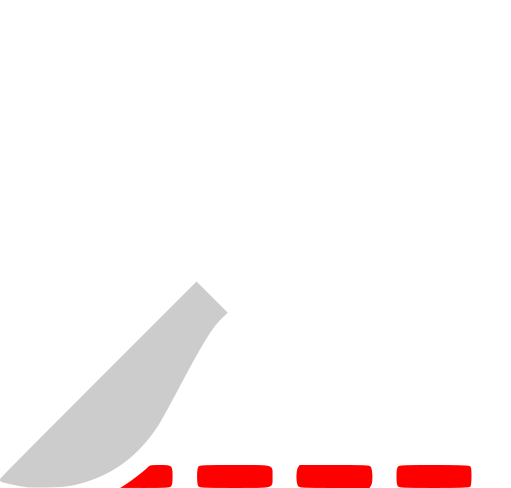
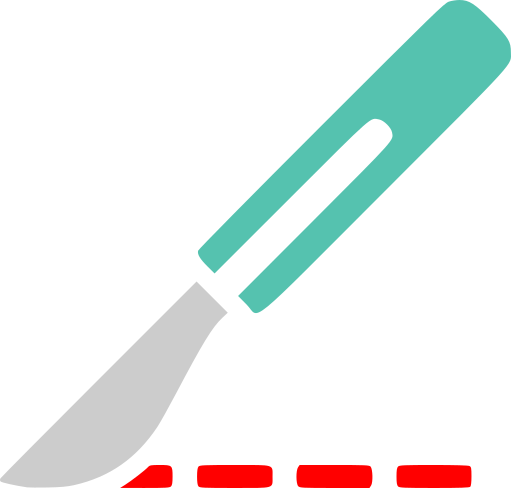
Visual

Changed region(s): [[0.3816, 0.0, 1.0, 0.6455]]

diff --git a/src/components/leaflet/leaflet_polylinedraw.js b/src/components/leaflet/leaflet_polylinedraw.js
@@ -19,7 +19,7 @@ L.Control.PolylineDraw = L.Control.extend({
     button.href = "#";
     button.title = "Start transect";
     var svgIcon =
-      '<svg xmlns="http://www.w3.org/2000/svg" width="28" height="28" version="1.1" viewBox="0 0 135.246 129.12" > <g strokeWidth="0.265" transform="translate(-4.964 -29.138)"> <path fill="#fff" d="M70.216 109.702l-2.24-2.25 20.279-20.306c21.623-21.651 20.878-20.814 20.469-22.994-.237-1.26-2.157-3.171-3.426-3.41-2.44-.457-1.216-1.535-23.238 20.466l-20.304 20.284-1.85-1.836c-2.025-2.009-2.753-3.221-2.511-4.183.09-.357 14.072-14.525 32.617-33.05 29.83-29.798 32.567-32.462 33.765-32.856.717-.236 1.978-.429 2.802-.429 2.54 0 4.02.953 8.518 5.488 4.526 4.563 5.089 5.493 5.089 8.403 0 3.51 2.132 1.167-33.402 36.71-37.546 37.558-32.845 33.706-36.568 29.963z" ></path> <path fill="red" d="M38.07 157.42c1.598-.996 5.361-3.907 6.061-4.688.449-.5.788-.563 3.09-.563 3.326 0 3.418.082 3.418 3.043 0 1.658-.105 2.316-.416 2.627-.356.356-1.358.415-6.946.41l-6.53-.004zm19.414.397c-.243-.292-.363-1.156-.363-2.605 0-1.448.12-2.313.363-2.605.325-.392 1.327-.437 9.55-.437 10.84 0 10.063-.239 10.063 3.088 0 3.215.734 2.997-10.109 2.997-8.18 0-9.18-.046-9.504-.438zm26.4-.046c-.598-.661-.616-4.17-.025-5.013l.412-.588h9.213c8.213 0 9.252.047 9.573.433.567.684.654 4.184.124 4.993l-.432.659h-9.213c-8.59 0-9.243-.033-9.651-.484zm26.437.068c-.312-.311-.416-.97-.416-2.627 0-1.657.104-2.315.416-2.627.362-.361 1.586-.415 9.41-.415 5.694 0 9.182.1 9.506.273.45.241.512.573.512 2.726 0 1.553-.116 2.567-.318 2.768-.234.235-2.712.318-9.506.318-8 0-9.242-.054-9.604-.416z" ></path> <path fill="#ccc" d="M12.142 158.089c-3.239-.482-6.776-1.27-7.02-1.564-.202-.243-.21-.503-.026-.833.147-.264 11.882-12.088 26.08-26.276l25.812-25.796 4.127 4.127 4.127 4.127-1.473 1.394c-2.637 2.493-5.156 6.617-12.21 19.984-1.996 3.783-4.226 7.772-4.955 8.863-5.556 8.312-12.648 13.266-22.027 15.384-1.774.401-3.562.56-7.011.623-2.547.047-4.988.032-5.424-.033z" ></path> </g> </svg>';
+      '<svg xmlns="http://www.w3.org/2000/svg" width="28" height="28" version="1.1" viewBox="0 0 135.246 129.12" > <g strokeWidth="0.265" transform="translate(-4.964 -29.138)"> <path fill="#44bca7" d="M70.216 109.702l-2.24-2.25 20.279-20.306c21.623-21.651 20.878-20.814 20.469-22.994-.237-1.26-2.157-3.171-3.426-3.41-2.44-.457-1.216-1.535-23.238 20.466l-20.304 20.284-1.85-1.836c-2.025-2.009-2.753-3.221-2.511-4.183.09-.357 14.072-14.525 32.617-33.05 29.83-29.798 32.567-32.462 33.765-32.856.717-.236 1.978-.429 2.802-.429 2.54 0 4.02.953 8.518 5.488 4.526 4.563 5.089 5.493 5.089 8.403 0 3.51 2.132 1.167-33.402 36.71-37.546 37.558-32.845 33.706-36.568 29.963z" ></path> <path fill="red" d="M38.07 157.42c1.598-.996 5.361-3.907 6.061-4.688.449-.5.788-.563 3.09-.563 3.326 0 3.418.082 3.418 3.043 0 1.658-.105 2.316-.416 2.627-.356.356-1.358.415-6.946.41l-6.53-.004zm19.414.397c-.243-.292-.363-1.156-.363-2.605 0-1.448.12-2.313.363-2.605.325-.392 1.327-.437 9.55-.437 10.84 0 10.063-.239 10.063 3.088 0 3.215.734 2.997-10.109 2.997-8.18 0-9.18-.046-9.504-.438zm26.4-.046c-.598-.661-.616-4.17-.025-5.013l.412-.588h9.213c8.213 0 9.252.047 9.573.433.567.684.654 4.184.124 4.993l-.432.659h-9.213c-8.59 0-9.243-.033-9.651-.484zm26.437.068c-.312-.311-.416-.97-.416-2.627 0-1.657.104-2.315.416-2.627.362-.361 1.586-.415 9.41-.415 5.694 0 9.182.1 9.506.273.45.241.512.573.512 2.726 0 1.553-.116 2.567-.318 2.768-.234.235-2.712.318-9.506.318-8 0-9.242-.054-9.604-.416z" ></path> <path fill="#ccc" d="M12.142 158.089c-3.239-.482-6.776-1.27-7.02-1.564-.202-.243-.21-.503-.026-.833.147-.264 11.882-12.088 26.08-26.276l25.812-25.796 4.127 4.127 4.127 4.127-1.473 1.394c-2.637 2.493-5.156 6.617-12.21 19.984-1.996 3.783-4.226 7.772-4.955 8.863-5.556 8.312-12.648 13.266-22.027 15.384-1.774.401-3.562.56-7.011.623-2.547.047-4.988.032-5.424-.033z" ></path> </g> </svg>';
     button.innerHTML = svgIcon;
 
     L.DomEvent.on(button, "click", this._toggleDrawing, this);
@@ -28,7 +28,6 @@ L.Control.PolylineDraw = L.Control.extend({
   },
 
   onRemove: function (map) {
-    console.log("HEre")
     this._isDrawing = false;
     this._map.dragging.enable();
     L.DomUtil.removeClass(this._container, "leaflet-draw-enabled");

diff --git a/src/pages/lake/map/map.css b/src/pages/lake/map/map.css
@@ -8,6 +8,10 @@
     overflow: hidden;
 }
 
+.main .map.sidebar-open .layer-map .overlay-stack {
+    width: calc(100% - 436px)
+}
+
 .main .map .layer-map .leaflet-top {
     top: 70px;
 }
@@ -776,6 +780,12 @@
     display: inline-block;
 }
 
+@media screen and (max-width: 1000px) {
+    .main .map.sidebar-open .layer-map .overlay-stack {
+        width: calc(100% - 24px);
+    }
+}
+
 @media screen and (max-width: 500px) {
     .main .map .layer-map {
         width: 100%;
@@ -783,6 +793,8 @@
         top: var(--header-height);
         left: 0;
         border-radius: 0;
+        border-top: 1px solid var(--border-color);
+        box-sizing: border-box;
     }
 
     .main .map .layer-map .overlay-stack {
@@ -791,10 +803,21 @@
 
     .main .map .layer-map .overlay-stack .legend {
         position: fixed;
-        right: 12px;
-        top: calc(var(--header-height) + 12px);
+        right: 0;
+        top: var(--header-height);
         width: calc(100% - 96px);
-        font-size: 12px;
+        font-size: 14px;
+        border-radius: 12px 0 0 0;
+    }
+
+    .main .map .layer-map .overlay-stack .legend .legend-inner {
+        border-radius: 0 0 0 12px;
+        padding: 8px;
+        border-top: 1px solid var(--border-color);
+    }
+
+    .main .map .layer-map .overlay-stack .legend .legend-inner .colorbar .bar {
+        line-height: 14px;
     }
 
     .main .map .layer-map .map-sidebar {

diff --git a/src/pages/lake/map/sidebar.jsx b/src/pages/lake/map/sidebar.jsx
@@ -21,12 +21,9 @@ import AddLayers from "./addlayers";
 
 class Sidebar extends Component {
   state = {
-    open: true,
     addLayersModal: false,
   };
-  toggleOpen = () => {
-    this.setState({ open: !this.state.open });
-  };
+
   toggleAddLayersModal = () => {
     this.setState({ addLayersModal: !this.state.addLayersModal });
   };
@@ -45,8 +42,10 @@ class Sidebar extends Component {
       depth,
       setPeriod,
       setDepth,
+      sidebar,
+      toggleSidebar,
     } = this.props;
-    const { open, addLayersModal } = this.state;
+    const { addLayersModal } = this.state;
     const images = {
       temperature: temperature_icon,
       velocity: velocity_icon,
@@ -64,11 +63,11 @@ class Sidebar extends Component {
     const layer = selection ? layers.find((l) => l.id === selection) : false;
     return (
       <React.Fragment>
-        <div className={open ? "map-sidebar" : "map-sidebar closed"}>
+        <div className={sidebar ? "map-sidebar" : "map-sidebar closed"}>
           <div className="sidebar-head">
             <div className="sidebar-title">{title}</div>
             <div className="sidebar-toggle">
-              <div className="settings-button" onClick={this.toggleOpen}>
+              <div className="settings-button" onClick={toggleSidebar}>
                 <img src={settings_icon} alt="Settings" />
               </div>
             </div>

diff --git a/src/pages/lake/map/map.jsx b/src/pages/lake/map/map.jsx
@@ -25,6 +25,8 @@ class Map extends Component {
     datetime: false,
     depth: false,
     selection: false,
+    sidebar: true,
+    graph: {},
     mapId: "map_" + Math.round(Math.random() * 100000),
   };
 
@@ -42,6 +44,10 @@ class Map extends Component {
 
   closeSelection = () => {
     this.setState({ selection: false });
+  };
+
+  toggleSidebar = () => {
+    this.setState({ sidebar: !this.state.sidebar });
   };
 
   addLayers = async (add, initial) => {
@@ -206,6 +212,7 @@ class Map extends Component {
       selection,
       period,
       depth,
+      sidebar,
     } = this.state;
     var { language, dark } = this.props;
     var title = "";
@@ -215,7 +222,7 @@ class Map extends Component {
       title = name[language];
     }
     return (
-      <div className="map">
+      <div className={sidebar ? "map sidebar-open" : "map"}>
         <Helmet>
           <title>{documentTitle}</title>
           <meta name="description" content="Alplakes map viewer." />
@@ -231,6 +238,8 @@ class Map extends Component {
               </div>
             </NavLink>
             <Sidebar
+              sidebar={sidebar}
+              toggleSidebar={this.toggleSidebar}
               layers={layers}
               title={title}
               period={period}

diff --git a/src/pages/lake/lake.css b/src/pages/lake/lake.css
@@ -249,7 +249,7 @@
     cursor: pointer;
     box-sizing: border-box;
     max-width: 100%;
-    padding: 20px 25px;
+    padding: 20px;
 }
 
 .main .lake .clickable-box:hover {
@@ -292,8 +292,8 @@
 }
 
 .main .lake .clickable-box .summary-table {
-    width: calc(100% + 50px);
-    margin-left: -25px;
+    width: calc(100% + 40px);
+    margin-left: -20px;
     margin-bottom: -20px;
     margin-top: 8px;
 }
@@ -305,8 +305,8 @@
 }
 
 .main .lake .clickable-box .skeleton-outer {
-    width: calc(100% + 50px);
-    margin-left: -25px;
+    width: calc(100% + 40px);
+    margin-left: -20px;
     margin-bottom: -20px;
     margin-top: 8px;
     position: relative;

diff --git a/src/components/leaflet/css/basemap.css b/src/components/leaflet/css/basemap.css
@@ -21,9 +21,9 @@
 
 .overlay-stack .legend .legend-inner {
     background-color: var(--box-color);
-    border-radius: 22px;
+    border-radius: 12px;
     width: fit-content;
-    padding: 12px;
+    padding: 4px 12px;
 }
 
 .overlay-stack .control-bar {

diff --git a/src/components/summarytable/summarytable.css b/src/components/summarytable/summarytable.css
@@ -47,7 +47,7 @@
 .summary-table .summarygraph {
     position: absolute;
     bottom: 0px;
-    left: 0;
+    left: 0px;
     width: 100%;
     height: 42px;
     z-index: 1;

diff --git a/metadata/create_metadata.py b/metadata/create_metadata.py
@@ -202,22 +202,24 @@ for lake in metadata:
 
 
     # Satellite data
-    if key in satellite:
-        satellite_data = []
-        layers["layers"].extend(func.satellite_layers(lake["key"], satellite[key]))
-        for sat in satellite_metadata:
-            sm = []
-            for source in sat["sources"]:
-                if source["satellite"] in satellite[key] and source["parameter"] in satellite[key][source["satellite"]]:
-                    sm.append(source["link"].replace("#key#", key))
-            if len(sm) > 0:
-                temp = sat.copy()
-                temp["key"] = key
-                temp["metadata"] = sm
-                satellite_data.append(temp)
-        if len(satellite_data) > 0:
-            home["filters"].append("satellite")
-            data["satellite"] = satellite_data
+    if key != "mondsee":
+        if key in satellite:
+            satellite_data = []
+            layers["layers"].extend(func.satellite_layers(lake["key"], satellite[key]))
+            for sat in satellite_metadata:
+                sm = []
+                for source in sat["sources"]:
+                    if source["satellite"] in satellite[key] and source["parameter"] in satellite[key][source["satellite"]]:
+                        sm.append(source["link"].replace("#key#", key))
+                if len(sm) > 0:
+                    temp = sat.copy()
+                    temp["key"] = key
+                    temp["metadata"] = sm
+                    satellite_data.append(temp)
+            if len(satellite_data) > 0:
+                home["filters"].append("satellite")
+                data["satellite"] = satellite_data
+
 
     with open('files/{}.json'.format(key), 'w') as json_file:
         json_file.write(json.dumps(data, separators=(',', ':'), ensure_ascii=False))
